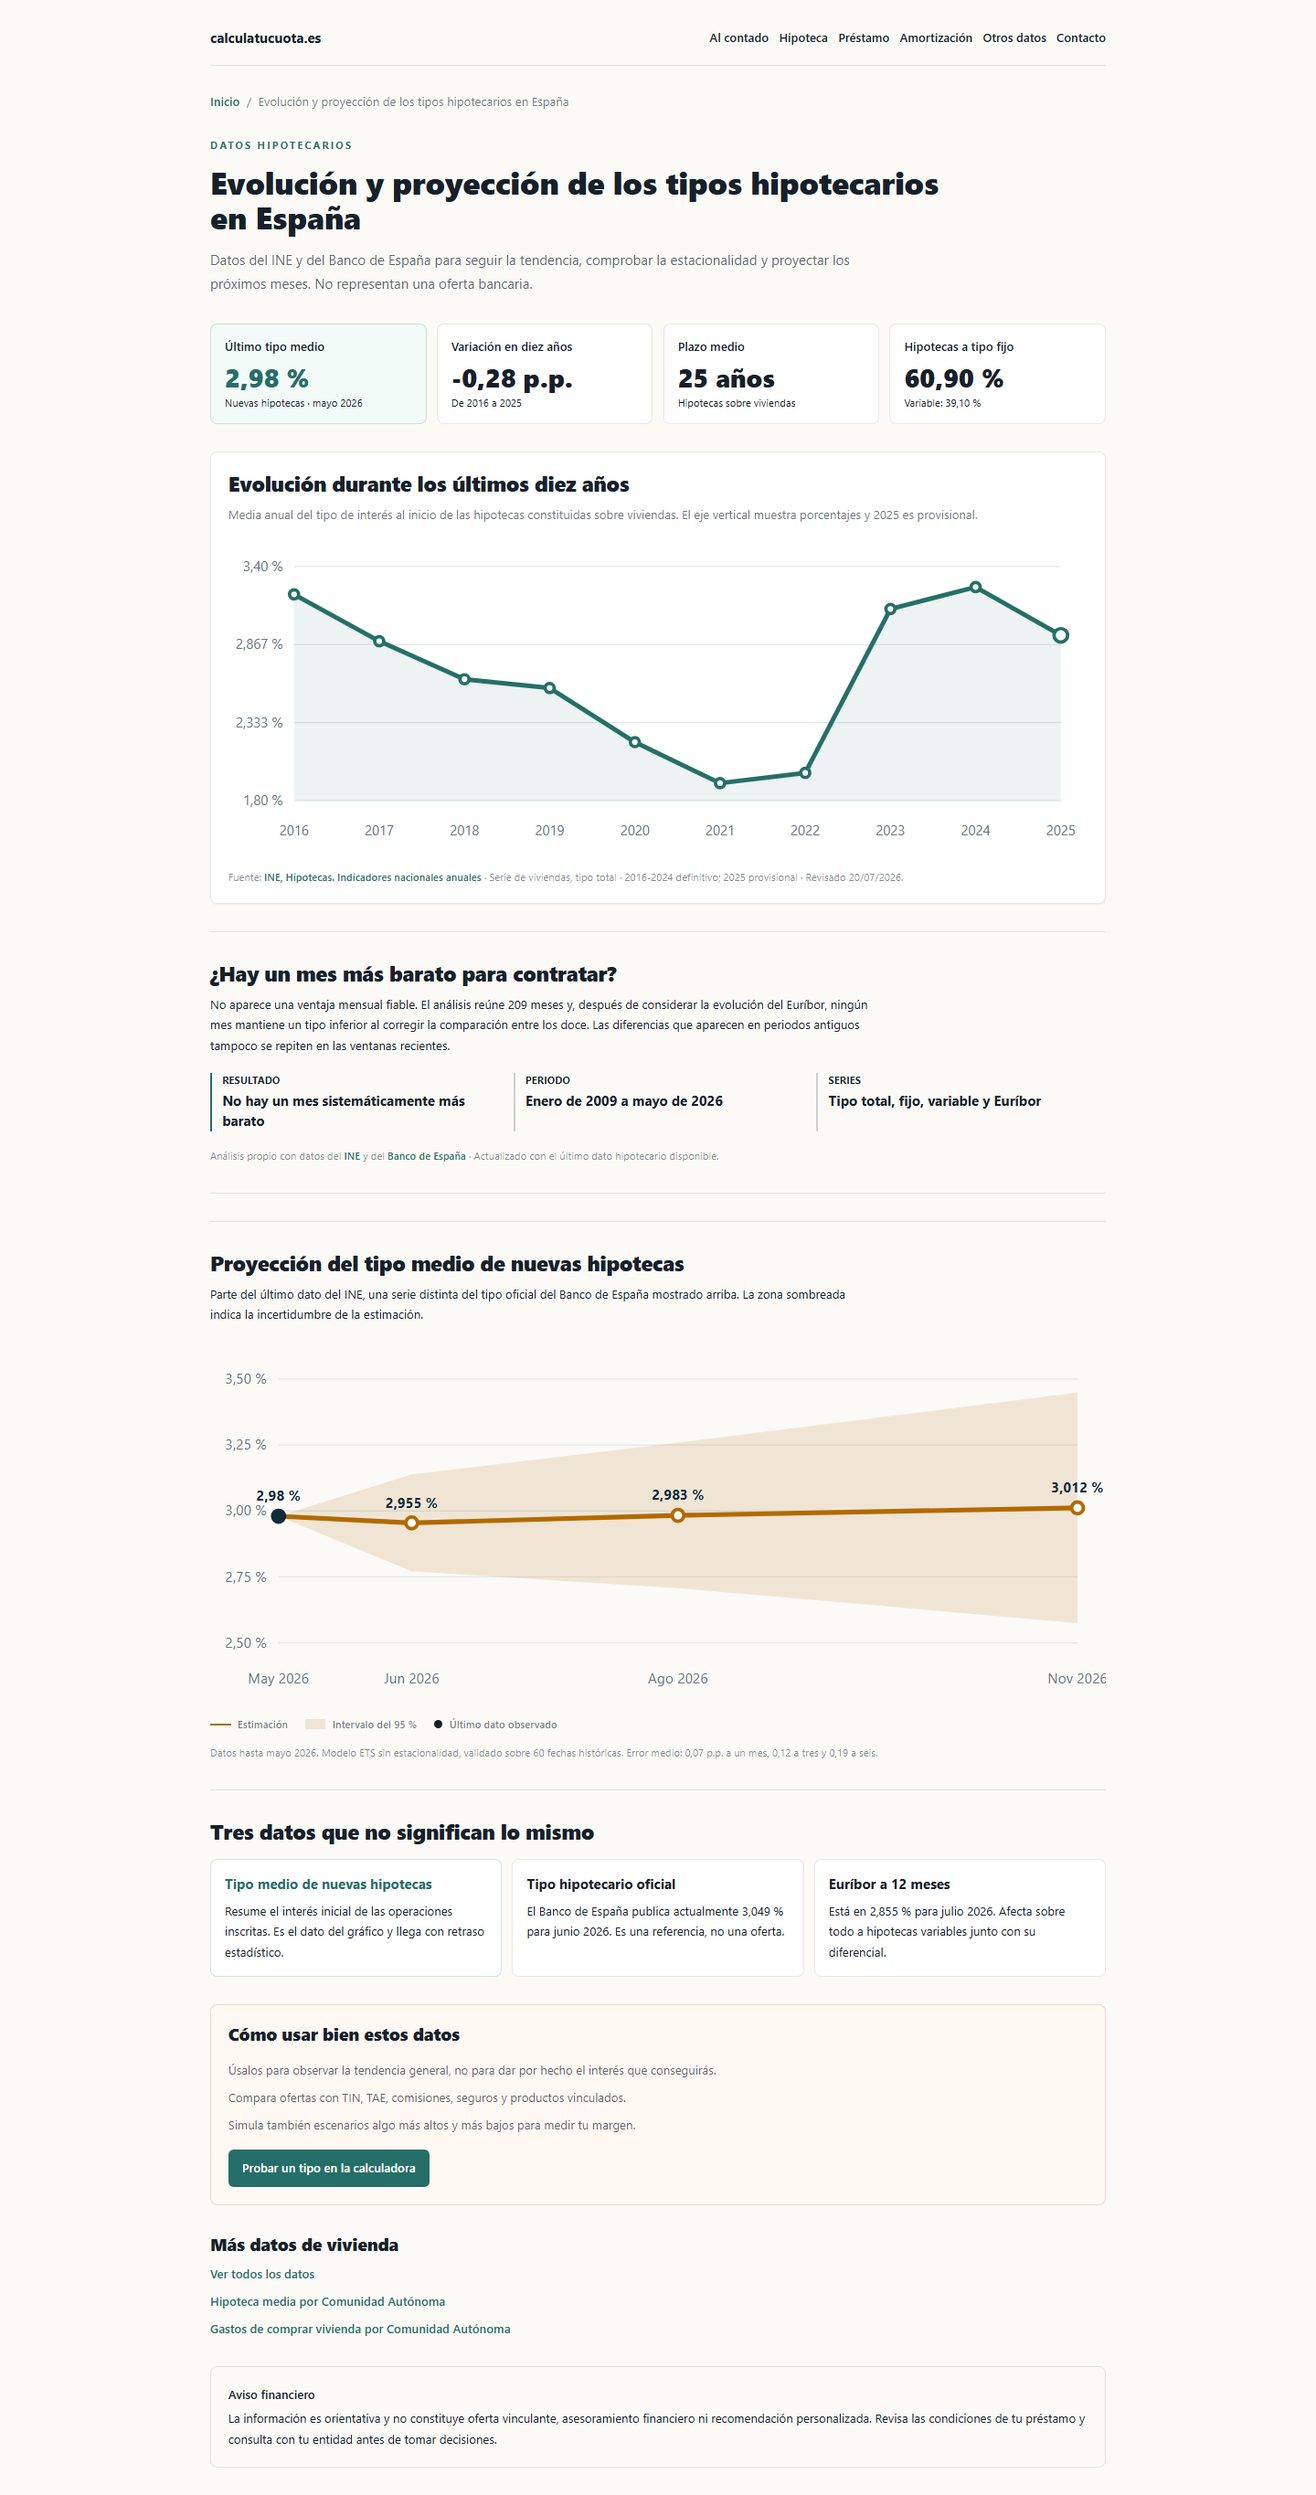
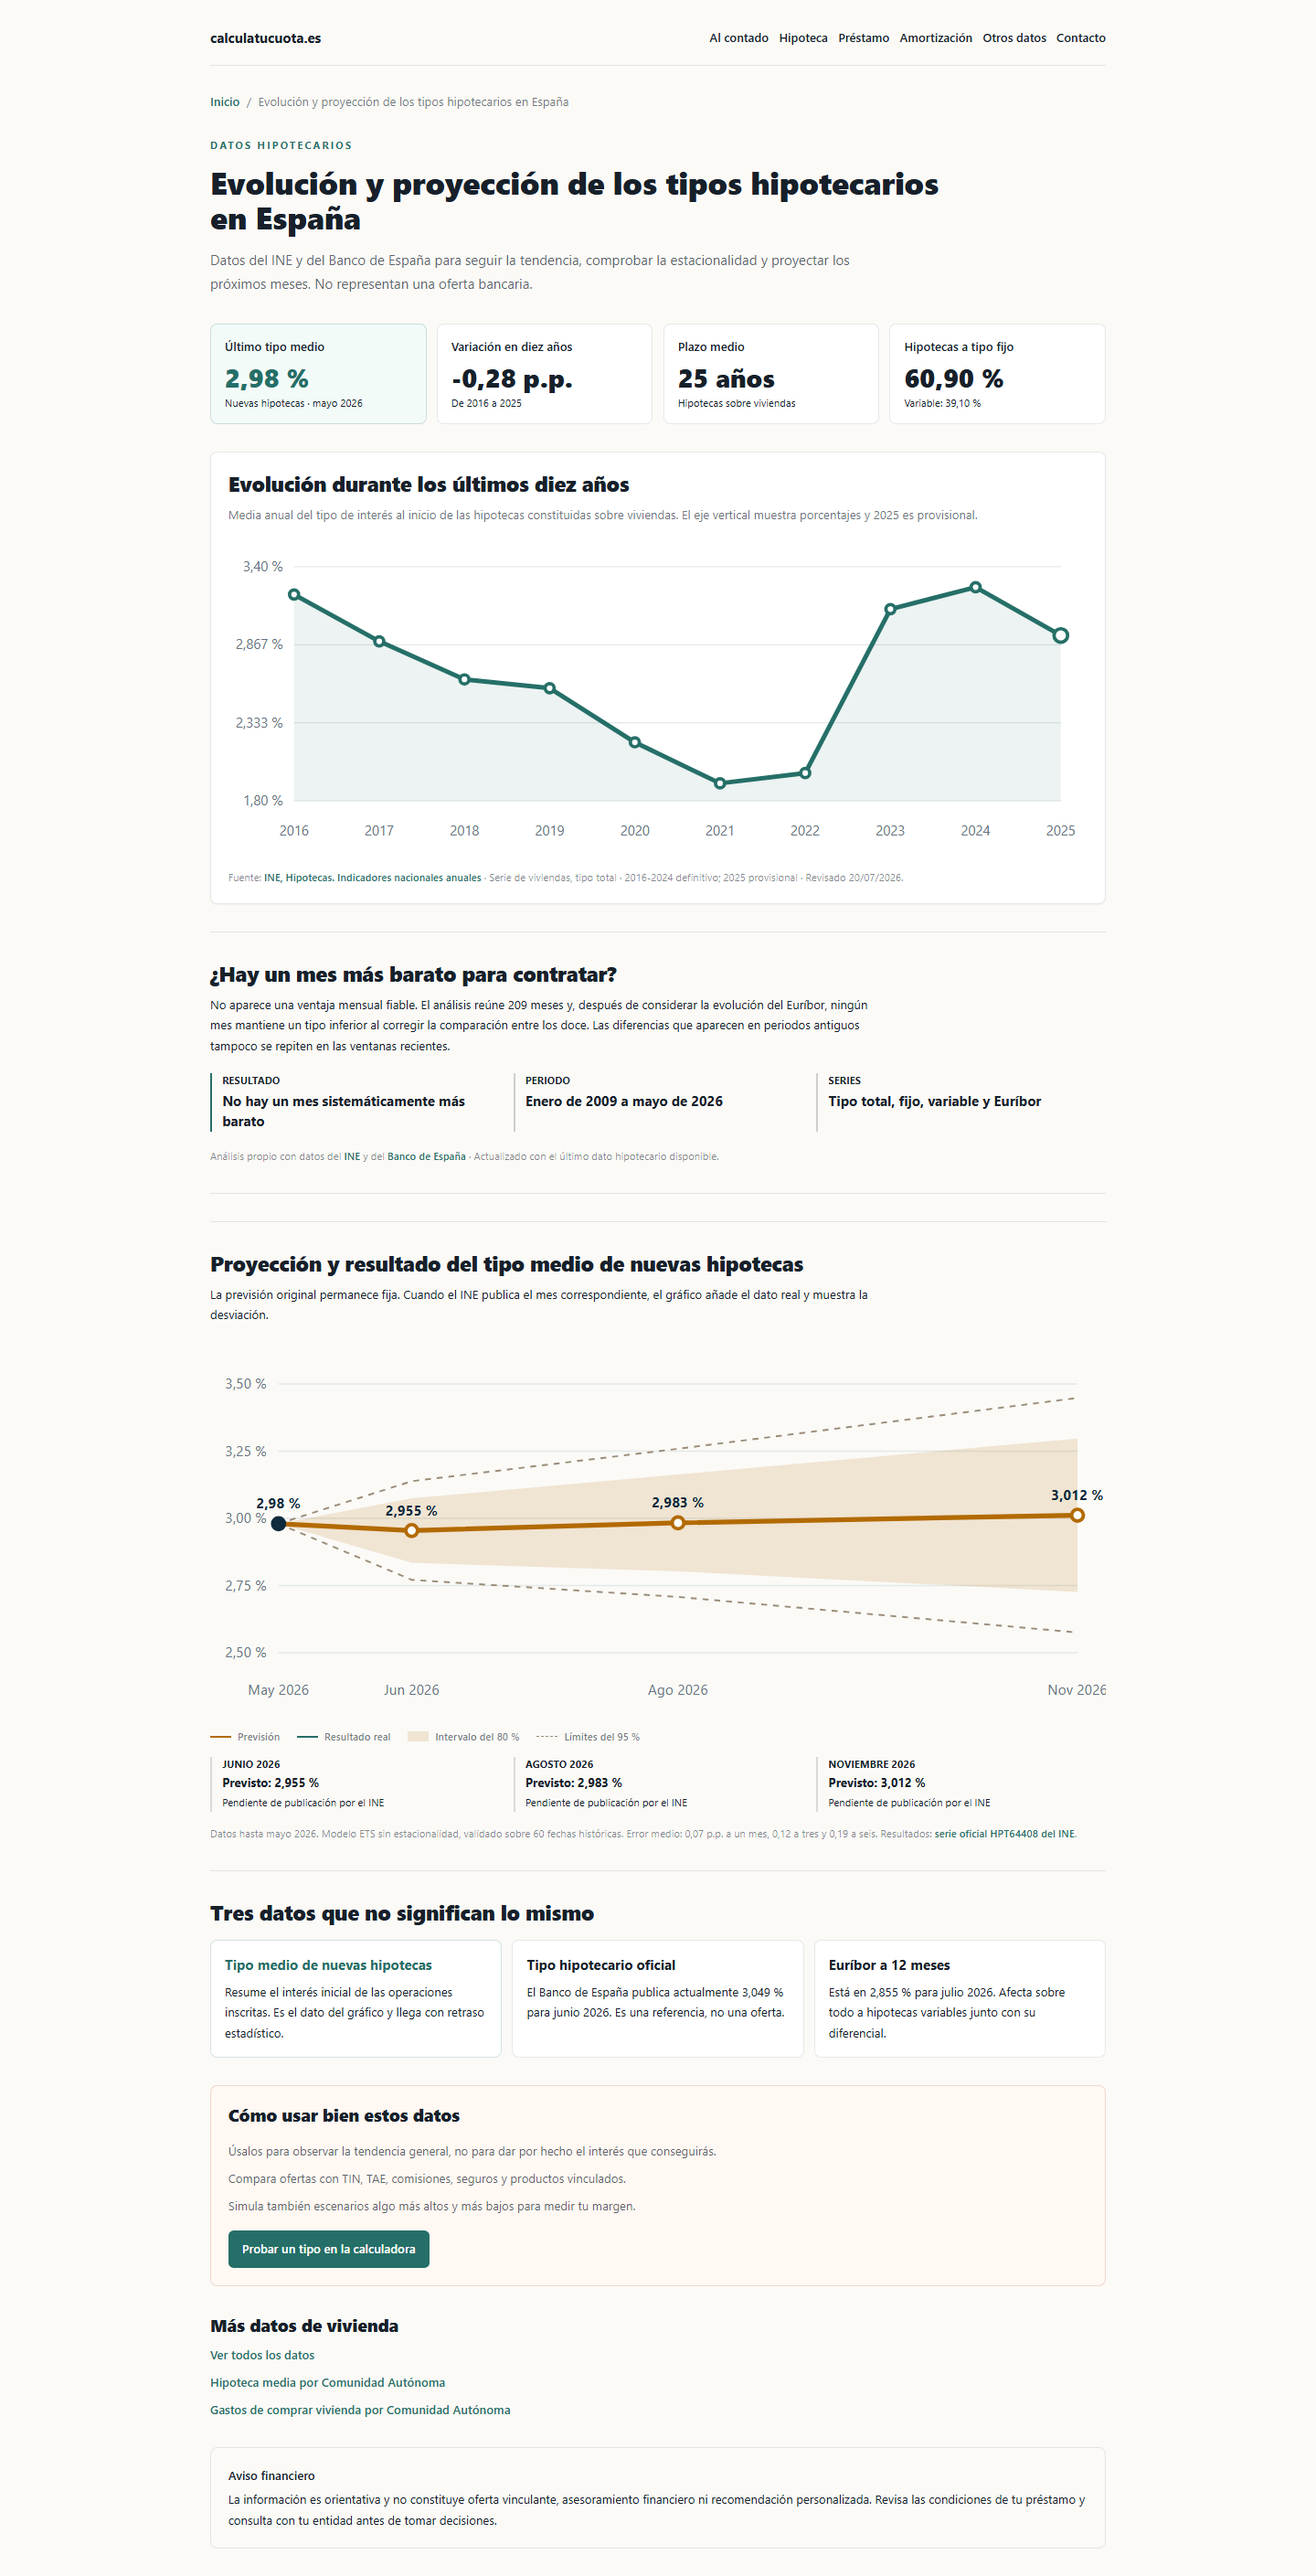
Cierra el showcase con el seguimiento de previsiones

diff --git a/README.md b/README.md
@@ -113,13 +113,14 @@ El objetivo es que cualquier usuario pueda entender:
 - Evolución histórica de ambas series.
 - Comparación entre hipotecas a tipo fijo y variable.
 - Análisis estadístico de la estacionalidad mensual.
-- Escenario estadístico a 1, 3 y 6 meses con intervalos de incertidumbre y error histórico.
-- Actualización periódica a partir de fuentes oficiales.
+- Escenario estadístico a 1, 3 y 6 meses con intervalos del 80 % y 95 %.
+- Comparación automática entre cada previsión guardada y el resultado posterior del INE.
+- Actualización mensual a partir de fuentes oficiales.
 
 El análisis concluye que, una vez considerada la evolución general de los tipos,
 no existe un mes sistemáticamente más barato en el periodo reciente. La página
-también publica una primera previsión experimental, diferenciada de los datos
-observados y de las ofertas bancarias.
+también conserva cada previsión y añade después el dato real y su error,
+diferenciándolos de los tipos oficiales y de las ofertas bancarias.
 
 <p align="center">
   <img src="assets/screenshots/evolucion-tipo-medio-hipotecas.png" alt="Evolución del tipo hipotecario medio y análisis de estacionalidad en calculatucuota.es" width="900" />
@@ -195,8 +196,8 @@ La aplicación combina simuladores financieros con información pública del mer
 
 El desarrollo funcional está cerrado. El mantenimiento posterior se limita a:
 
-- actualizar los datos oficiales cuando se publique un nuevo periodo;
-- acumular un historial público de previsiones y resultados observados;
+- revisar la actualización automática mensual de los datos oficiales;
+- revisar el historial automático de previsiones y resultados observados;
 - enviar y mantener el sitemap en Google Search Console;
 - trabajar el posicionamiento SEO según las consultas reales de búsqueda.
 
